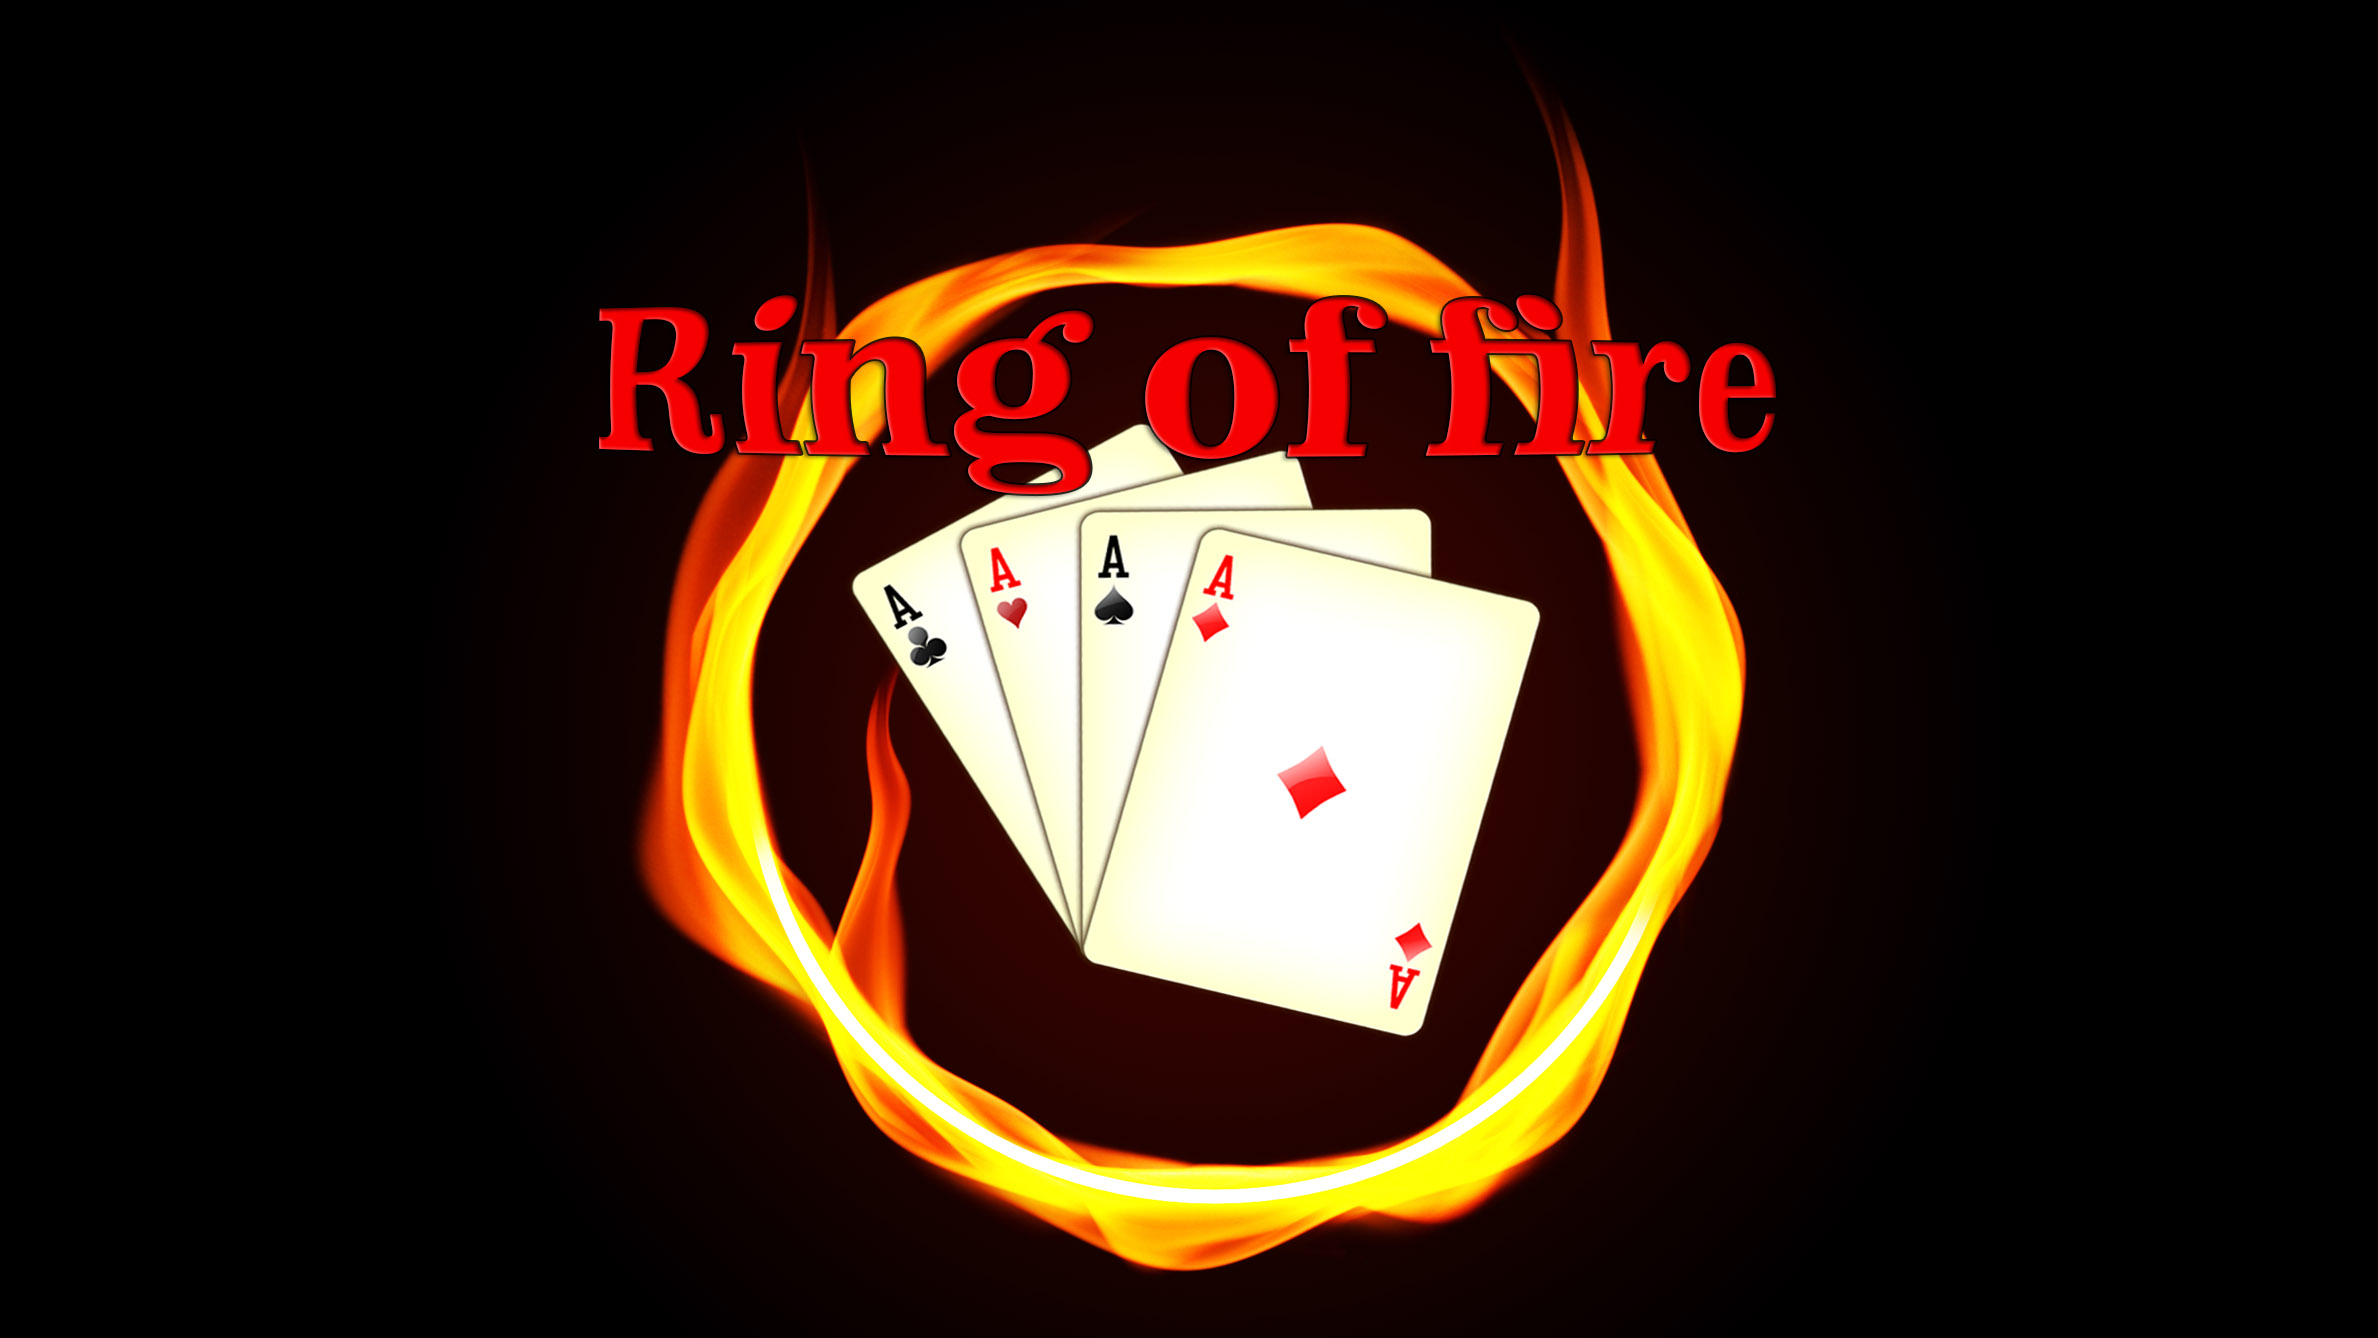
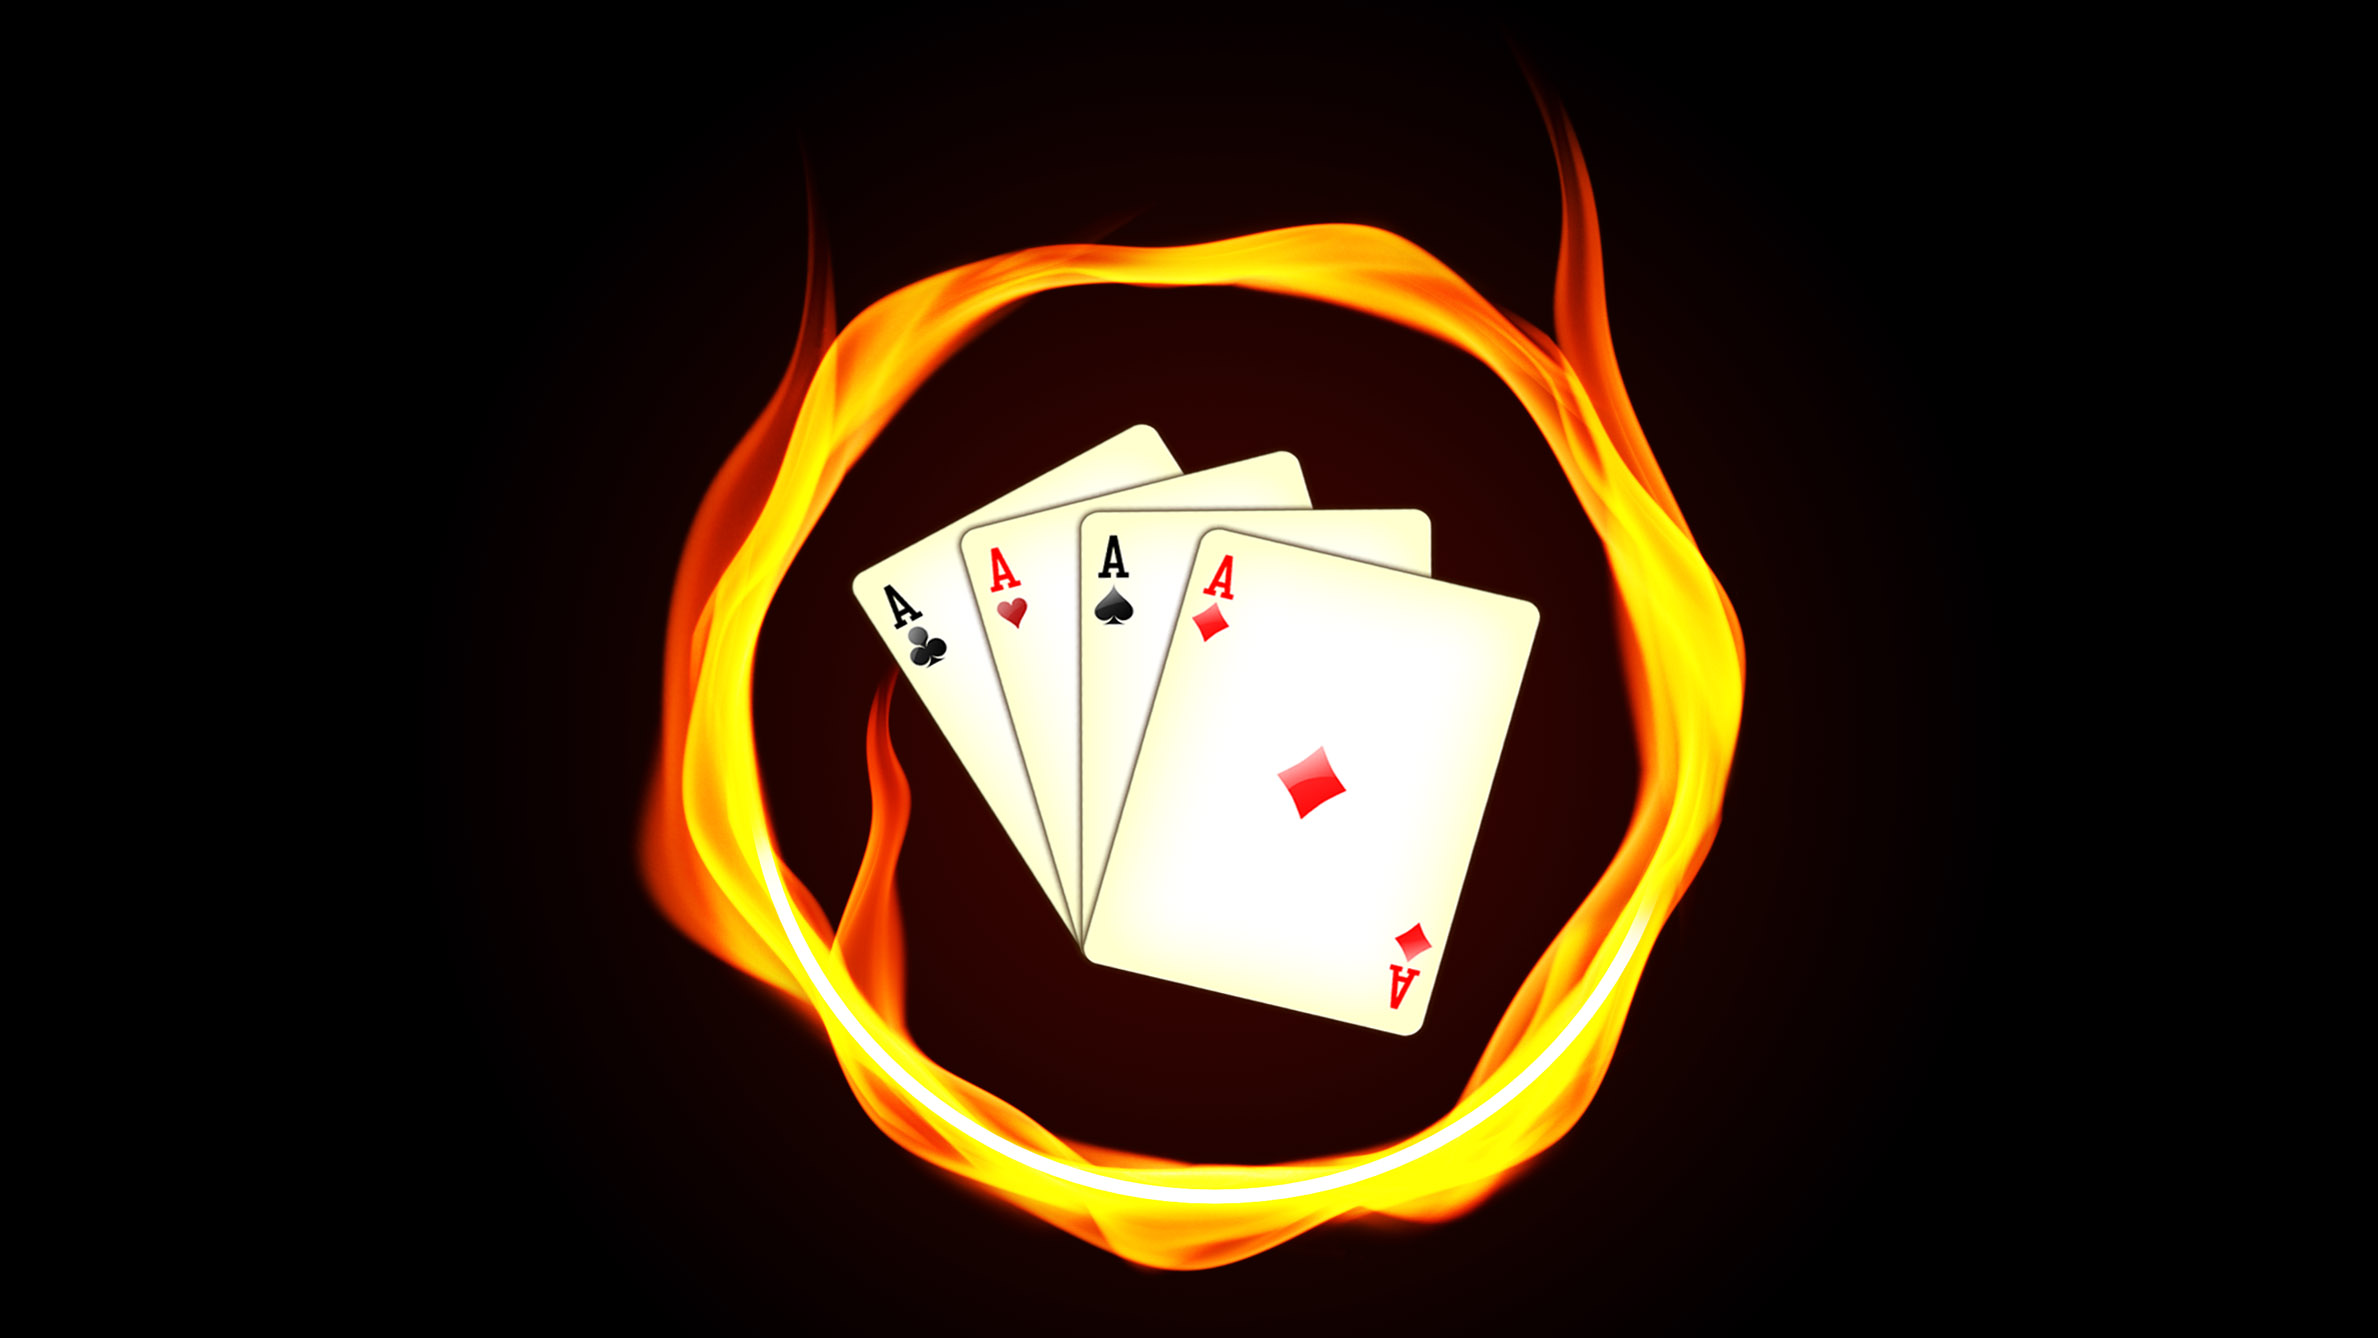
startscreen responsive

Changed region(s): [[0.2489, 0.2145, 0.7468, 0.3677]]

diff --git a/src/app/start-screen/start-screen.component.scss b/src/app/start-screen/start-screen.component.scss
@@ -10,11 +10,15 @@
     display: flex;
     justify-content: center;
     align-items: center;
+}
 
-    img {
-        height: 90vh;
-        object-fit: cover;
-    }
+.headline {
+    max-width: 80vw;
+    object-fit: cover;
+    position: absolute;
+    top: 20vh;
+    left: 50%;
+    transform: translateX(-50%);
 }
 
 .start-button {
@@ -36,5 +40,16 @@
     &:hover {
         filter: brightness(1.3);
         cursor: pointer;
+    }
+
+    @media (max-width: 992px) {
+        width: 60vw;
+        border-radius: 16px;
+        font-size: 32px;
+    }
+
+    @media (max-width: 456px) {
+        width: 80vw;
+        font-size: 24px;
     }
 }

diff --git a/src/app/start-screen/start-screen.component.html b/src/app/start-screen/start-screen.component.html
@@ -1,3 +1,5 @@
 <div class="start-screen">
+    <img src="assets/img/headline.png" alt="" class="headline">
+
     <button (click)="newGame()" class="start-button">Start game</button>
 </div>
